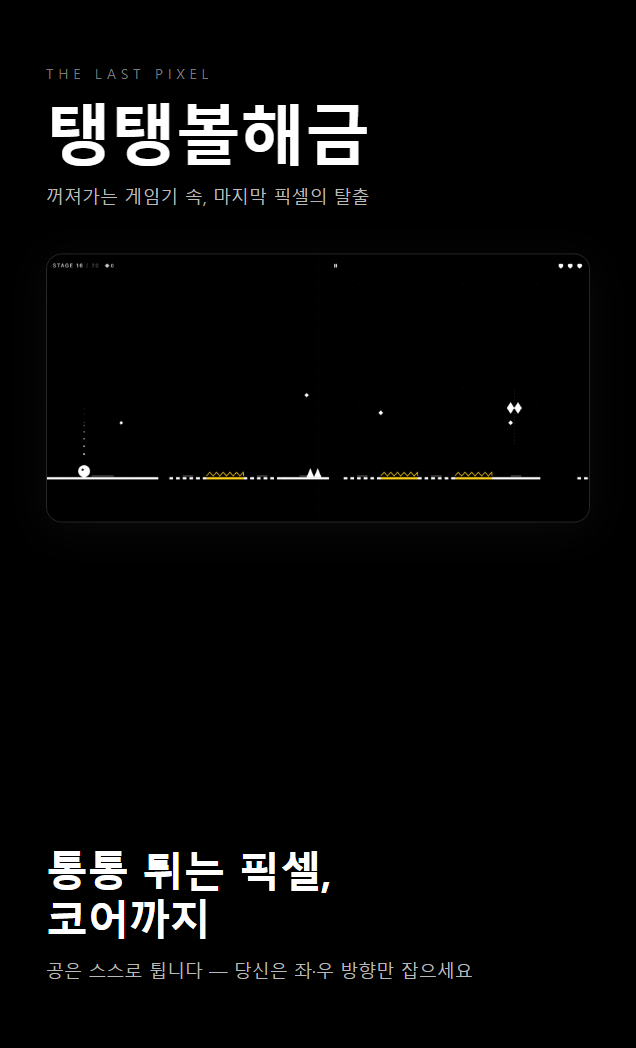
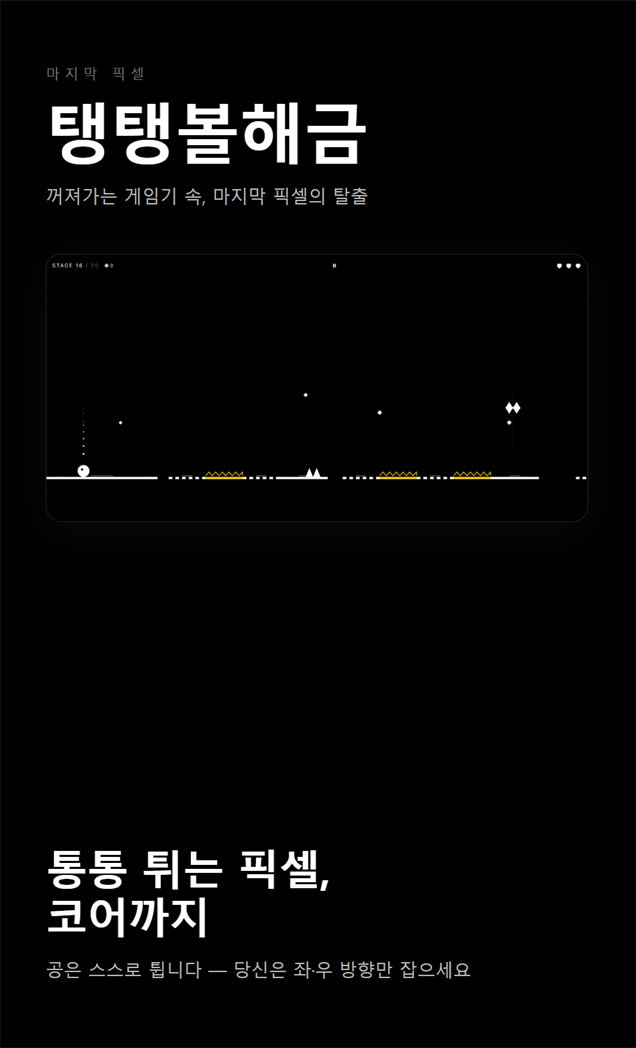
chore(session): 세션 종료 자동 커밋

diff --git a/출시준비_앱인토스/스토어이미지/_src/thumbnail.html b/출시준비_앱인토스/스토어이미지/_src/thumbnail.html
@@ -25,7 +25,7 @@
 
   /* 우측 텍스트 블록 */
   .copy{position:absolute;left:792px;top:0;width:1020px;height:828px;display:flex;flex-direction:column;justify-content:center;gap:0}
-  .eyebrow{font-family:'Inter';font-weight:700;font-size:30px;letter-spacing:.42em;color:rgba(255,255,255,.5);margin-bottom:30px}
+  .eyebrow{font-family:'Pretendard','Inter';font-weight:700;font-size:30px;letter-spacing:.2em;color:rgba(255,255,255,.5);margin-bottom:30px}
   .title{font-family:'Pretendard';font-weight:900;font-size:172px;line-height:.96;letter-spacing:-.015em;color:#fff}
   .sub{font-family:'Pretendard';font-weight:600;font-size:46px;line-height:1.35;color:rgba(255,255,255,.82);margin-top:34px}
   .chips{display:flex;gap:16px;margin-top:48px}
@@ -47,12 +47,12 @@
 
     <!-- 우측: 카피 -->
     <div class="copy">
-      <div class="eyebrow">THE LAST PIXEL</div>
+      <div class="eyebrow">마지막 픽셀</div>
       <div class="title">탱탱볼해금</div>
       <div class="sub">꺼져가는 게임기 속, 마지막 픽셀의 탈출</div>
       <div class="chips">
         <span class="chip ko">원터치 점프</span>
-        <span class="chip en">20 STAGES</span>
+        <span class="chip ko">20 스테이지</span>
         <span class="chip ko">흑백 미니멀 액션</span>
       </div>
     </div>

diff --git a/출시준비_앱인토스/스토어이미지/portrait_1.html b/출시준비_앱인토스/스토어이미지/portrait_1.html
@@ -12,7 +12,7 @@ html,body{width:636px;height:1048px;background:#000;overflow:hidden;
 .headline{font-size:42px;font-weight:800;line-height:1.14;letter-spacing:-.02em;}
 .sub{font-size:18px;color:#b9b9b9;margin-top:16px;line-height:1.5;}
 </style></head><body><div class="wrap">
-<div class="label">THE LAST PIXEL</div>
+<div class="label">마지막 픽셀</div>
 <div class="title">탱탱볼해금</div>
 <div class="tag">꺼져가는 게임기 속, 마지막 픽셀의 탈출</div>
 <div class="shot"><img src="scene_s16.png"></div>